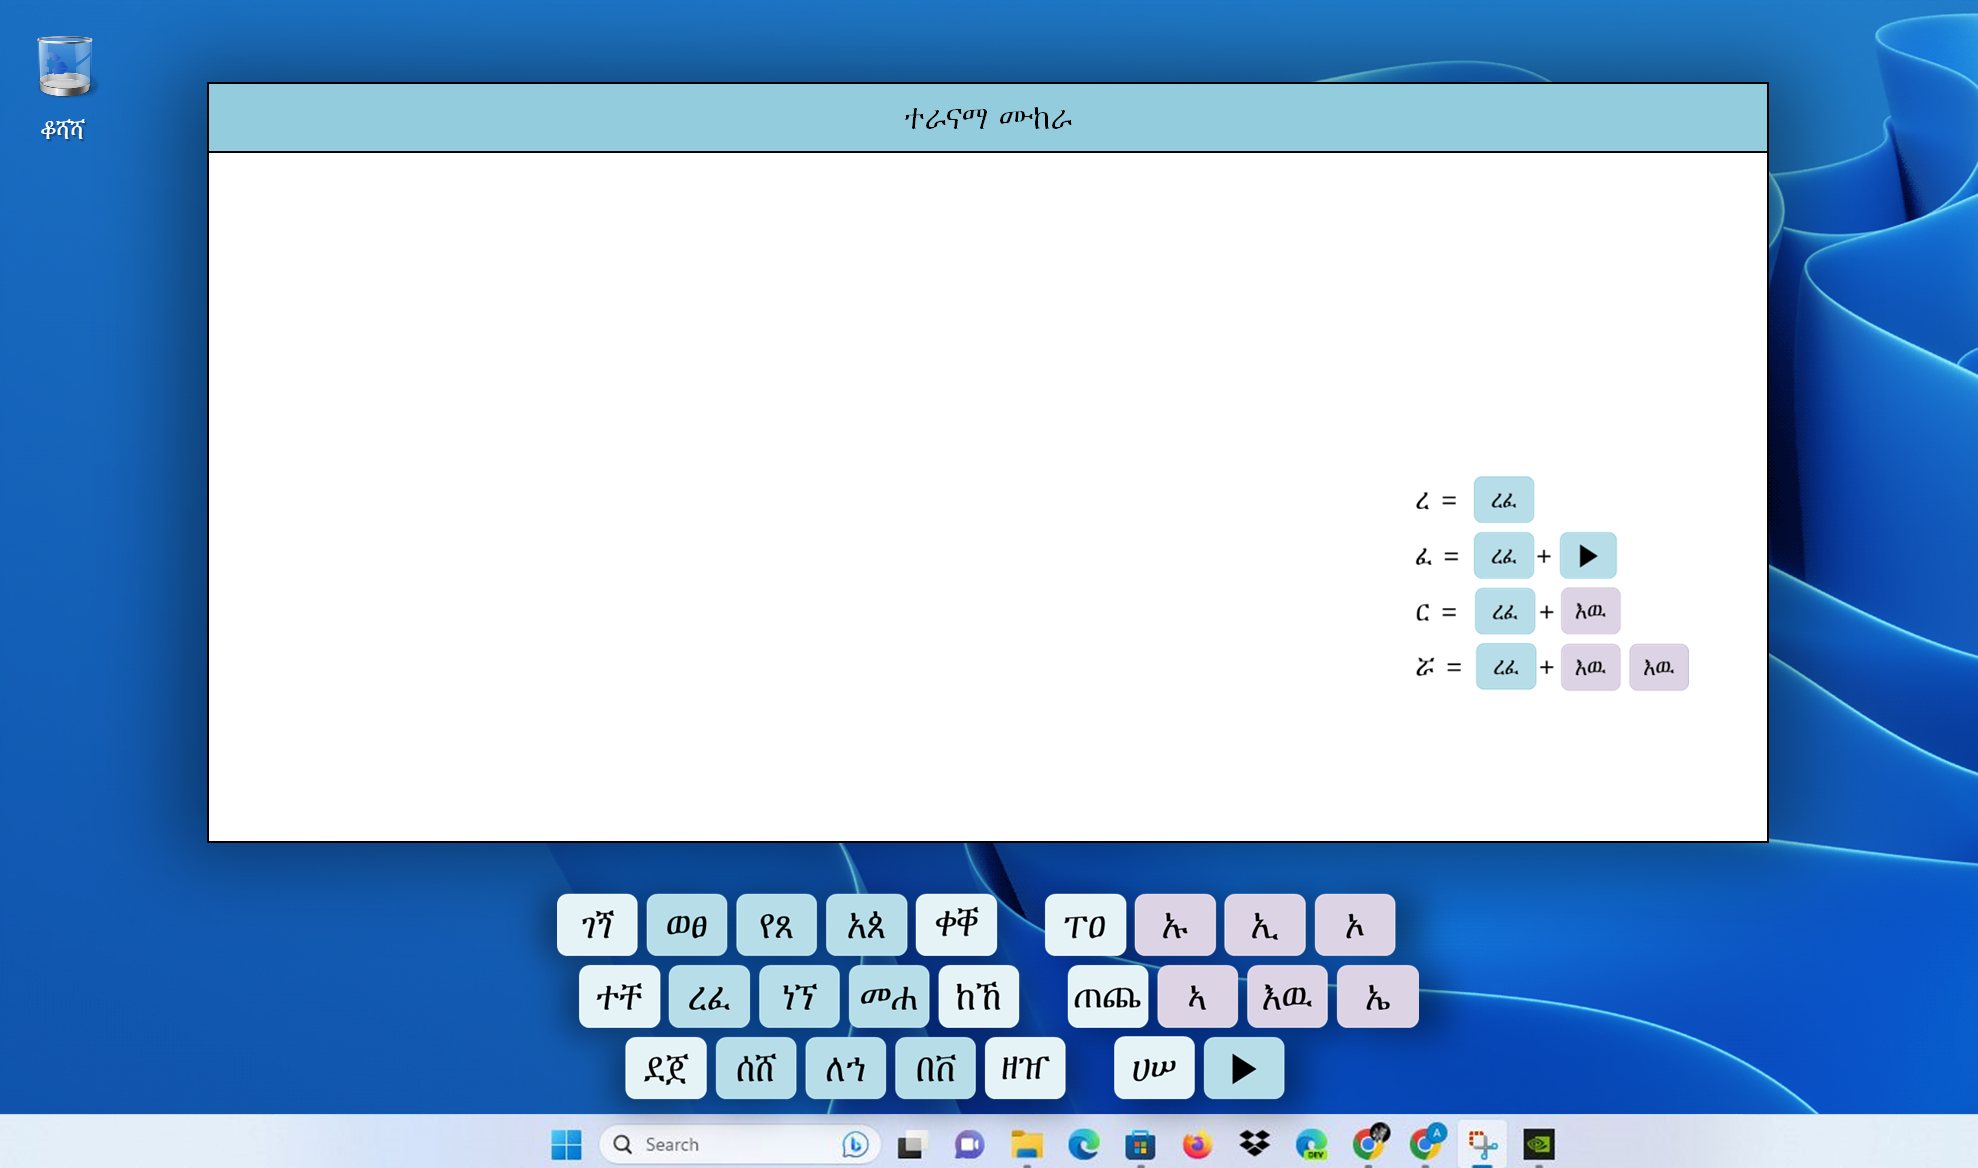
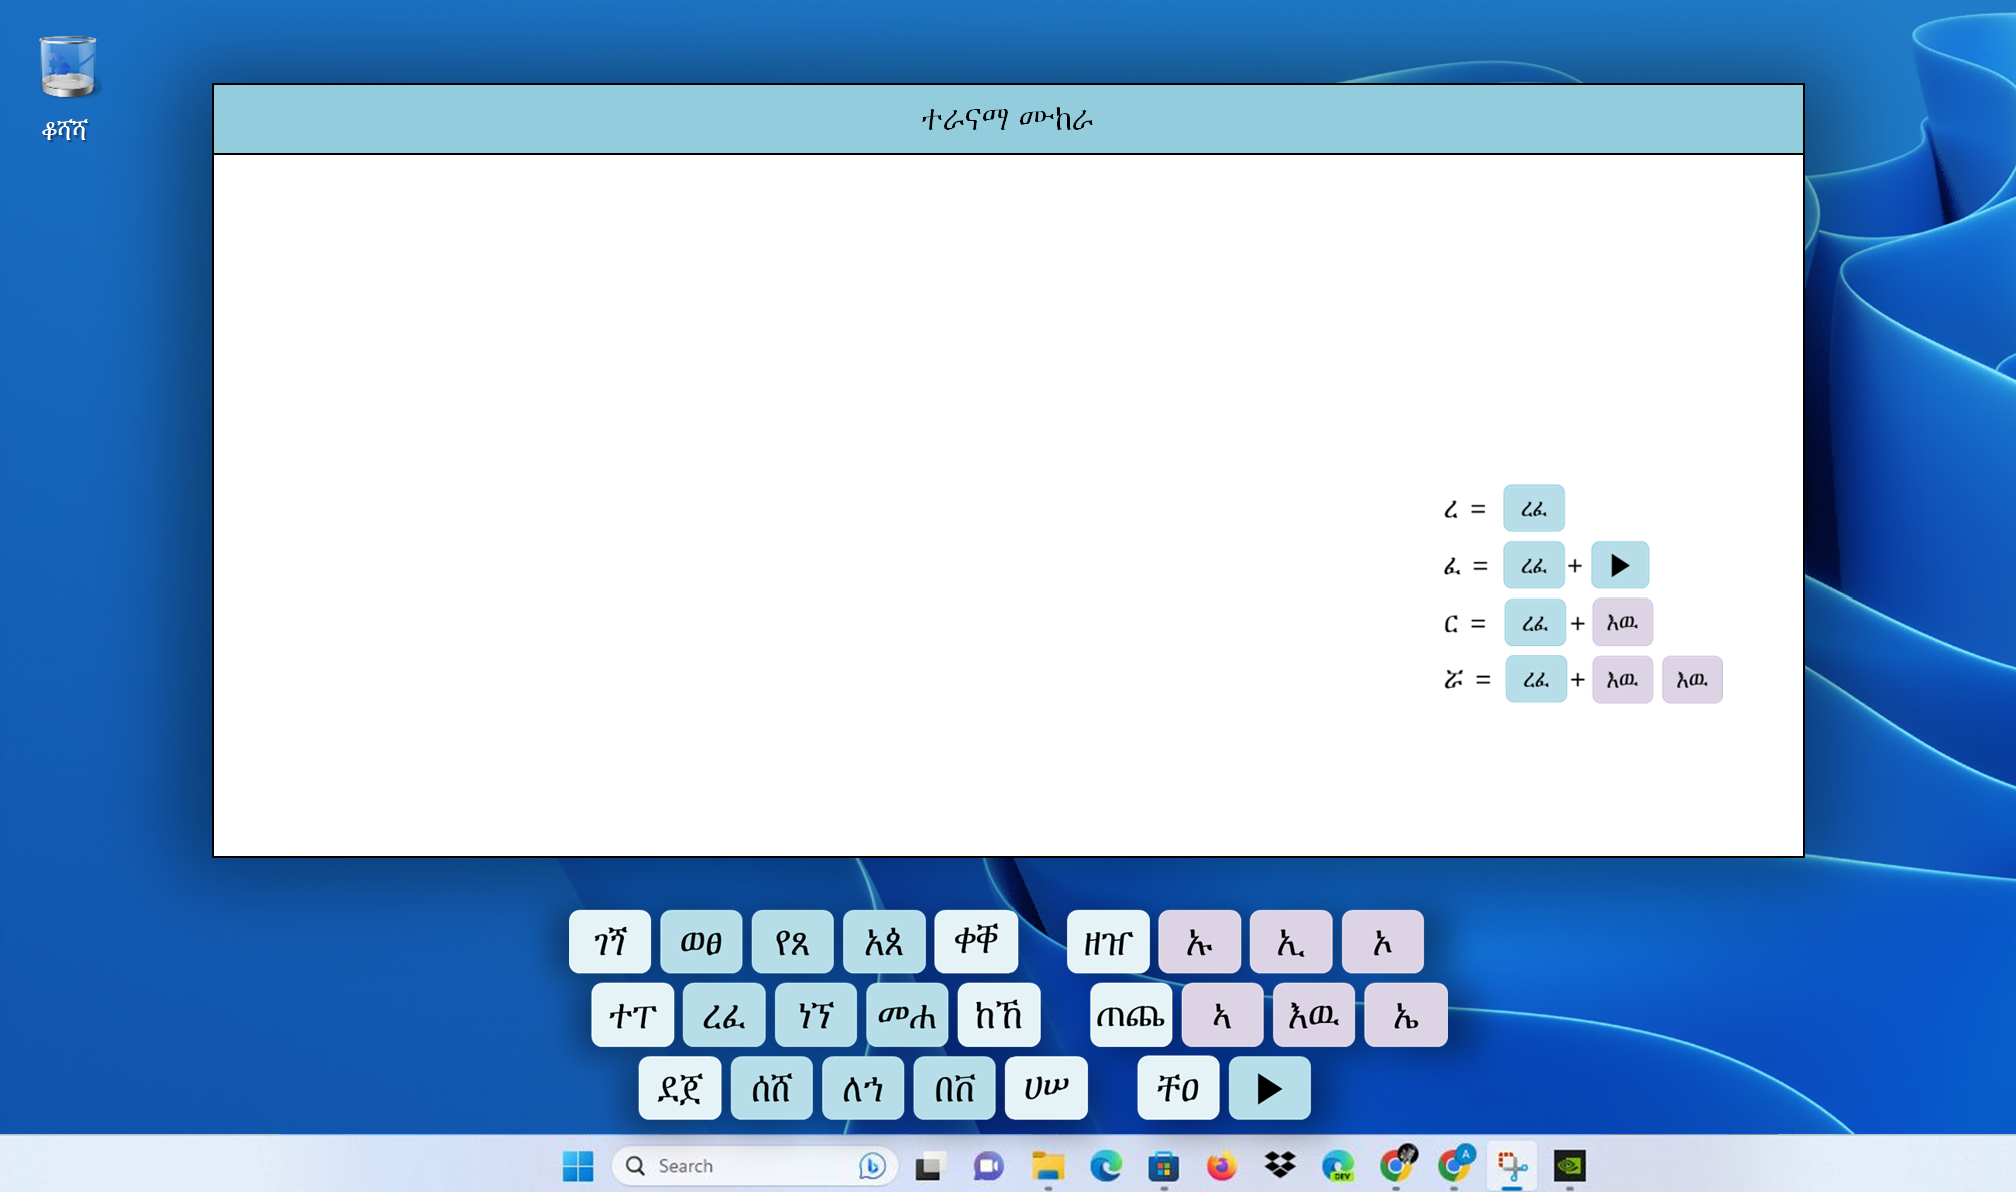
Add files via upload

diff --git a/mobile_demo.html b/mobile_demo.html
@@ -89,7 +89,7 @@
       <button class="key"><span class="lbl">የጸ</span></button>
       <button class="key"><span class="lbl">አጰ</span></button>
       <button class="key"><span class="lbl">ቀቐ</span></button>
-      <button class="key"><span class="lbl">ፐዐ</span></button>
+      <button class="key"><span class="lbl">ዘዠ</span></button>
       <button class="key vowel" data-vowel="U"><span class="lbl">ኡ</span></button>
       <button class="key vowel" data-vowel="I"><span class="lbl">ኢ</span></button>
       <button class="key vowel" data-vowel="O"><span class="lbl">ኦ</span></button>
@@ -97,7 +97,7 @@
 
     <!-- 2행 -->
     <div class="row row2">
-      <button class="key"><span class="lbl">ተቸ</span></button>
+      <button class="key"><span class="lbl">ተፐ</span></button>
       <button class="key"><span class="lbl">ረፈ</span></button>
       <button class="key"><span class="lbl">ነኘ</span></button>
       <button class="key"><span class="lbl">መሐ</span></button>
@@ -114,8 +114,8 @@
       <button class="key"><span class="lbl">ሰሸ</span></button>
       <button class="key"><span class="lbl">ለኀ</span></button>
       <button class="key"><span class="lbl">በቨ</span></button>
-      <button class="key"><span class="lbl">ዘዠ</span></button>
       <button class="key"><span class="lbl">ሀሠ</span></button>
+      <button class="key"><span class="lbl">ቸዐ</span></button>
       <div class="doubleSlot">
         <button class="key vowel ghost" data-role="next"><span class="lbl"></span></button>
         <button class="key ghost" data-role="backspace"><span class="lbl"></span></button>
@@ -155,9 +155,9 @@ const wBaseSet = new Set([...wSeriesBaseMap.values()]);
 
 /* next 그룹 */
 const layoutGroups = {
-  Q:["ገ","ጘ"], W:["ወ","ፀ"], E:["የ","ጸ"], R:["አ","ጰ"], T:["ቀ","ቐ"], Y:["ፐ","ዐ"],
-  A:["ተ","ቸ"], S:["ረ","ፈ"], D:["ነ","ኘ"], F:["መ","ሐ"], G:["ከ","ኸ"], H:["ጠ","ጨ"],
-  Z:["ደ","ጀ"], X:["ሰ","ሸ"], C:["ለ","ኀ"], V:["በ","ቨ"], B:["ዘ","ዠ"], N:["ሀ","ሠ"]
+  Q: ["ገ", "ጘ"], W: ["ወ","ፀ"], E: ["የ","ጸ"], R: ["አ","ጰ"], T: ["ቀ","ቐ"], Y: ["ዘ","ዠ"],
+  A: ["ተ","ፐ"], S: ["ረ","ፈ"], D: ["ነ","ኘ"], F: ["መ","ሐ"], G: ["ከ","ኸ"], H: ["ጠ","ጨ"],
+  Z: ["ደ","ጀ"], X: ["ሰ","ሸ"], C: ["ለ","ኀ"], V: ["በ","ቨ"], B: ["ሀ","ሠ"], N: ["ቸ","ዐ"]
 };
 const baseToGroup = new Map(); for (const arr of Object.values(layoutGroups)) for (const ch of arr) baseToGroup.set(ch, arr);
 
@@ -271,9 +271,9 @@ kb.addEventListener('click',(e)=>{
   const wBaseSet = new Set([...wSeriesBaseMap.values()]);
 
   const layoutGroups = {
-    Q:["ገ","ጘ"], W:["ወ","ፀ"], E:["የ","ጸ"], R:["አ","ጰ"], T:["ቀ","ቐ"], Y:["ፐ","ዐ"],
-    A:["ተ","ቸ"], S:["ረ","ፈ"], D:["ነ","ኘ"], F:["መ","ሐ"], G:["ከ","ኸ"], H:["ጠ","ጨ"],
-    Z:["ደ","ጀ"], X:["ሰ","ሸ"], C:["ለ","ኀ"], V:["በ","ቨ"], B:["ዘ","ዠ"], N:["ሀ","ሠ"]
+    Q: ["ገ", "ጘ"], W: ["ወ","ፀ"], E: ["የ","ጸ"], R: ["አ","ጰ"], T: ["ቀ","ቐ"], Y: ["ዘ","ዠ"],
+  A: ["ተ","ፐ"], S: ["ረ","ፈ"], D: ["ነ","ኘ"], F: ["መ","ሐ"], G: ["ከ","ኸ"], H: ["ጠ","ጨ"],
+  Z: ["ደ","ጀ"], X: ["ሰ","ሸ"], C: ["ለ","ኀ"], V: ["በ","ቨ"], B: ["ሀ","ሠ"], N: ["ቸ","ዐ"]
   };
   const baseToGroup = new Map(); for(const arr of Object.values(layoutGroups)) for(const ch of arr) baseToGroup.set(ch, arr);
 

diff --git a/teranama.html b/teranama.html
@@ -209,9 +209,9 @@ const wBaseSet = new Set([...wSeriesBaseMap.values()]);
 
 // Base groups for 'next' cycling
 const layout = {
-  Q: ["ገ", "ጘ"], W: ["ወ","ፀ"], E: ["የ","ጸ"], R: ["አ","ጰ"], T: ["ቀ","ቐ"], Y: ["ፐ","ዐ"],
-  A: ["ተ","ቸ"], S: ["ረ","ፈ"], D: ["ነ","ኘ"], F: ["መ","ሐ"], G: ["ከ","ኸ"], H: ["ጠ","ጨ"],
-  Z: ["ደ","ጀ"], X: ["ሰ","ሸ"], C: ["ለ","ኀ"], V: ["በ","ቨ"], B: ["ዘ","ዠ"], N: ["ሀ","ሠ"],
+  Q: ["ገ", "ጘ"], W: ["ወ","ፀ"], E: ["የ","ጸ"], R: ["አ","ጰ"], T: ["ቀ","ቐ"], Y: ["ዘ","ዠ"],
+  A: ["ተ","ፐ"], S: ["ረ","ፈ"], D: ["ነ","ኘ"], F: ["መ","ሐ"], G: ["ከ","ኸ"], H: ["ጠ","ጨ"],
+  Z: ["ደ","ጀ"], X: ["ሰ","ሸ"], C: ["ለ","ኀ"], V: ["በ","ቨ"], B: ["ሀ","ሠ"], N: ["ቸ","ዐ"],
   M: ["next"]
 };
 const baseToGroup = new Map();
@@ -231,9 +231,9 @@ const space   = () => insert(" ");
 
 // Base insert mapping
 const keyToBaseInsert = {
-  Q:"ገ", W:"ወ", E:"የ", R:"አ", T:"ቀ", Y:"ፐ",
+  Q:"ገ", W:"ወ", E:"የ", R:"አ", T:"ቀ", Y:"ዘ",
   A:"ተ", S:"ረ", D:"ነ", F:"መ", G:"ከ", H:"ጠ",
-  Z:"ደ", X:"ሰ", C:"ለ", V:"በ", B:"ዘ", N:"ሀ"
+  Z:"ደ", X:"ሰ", C:"ለ", V:"በ", B:"ሀ", N:"ቸ"
 };
 
 // Vowel apply
